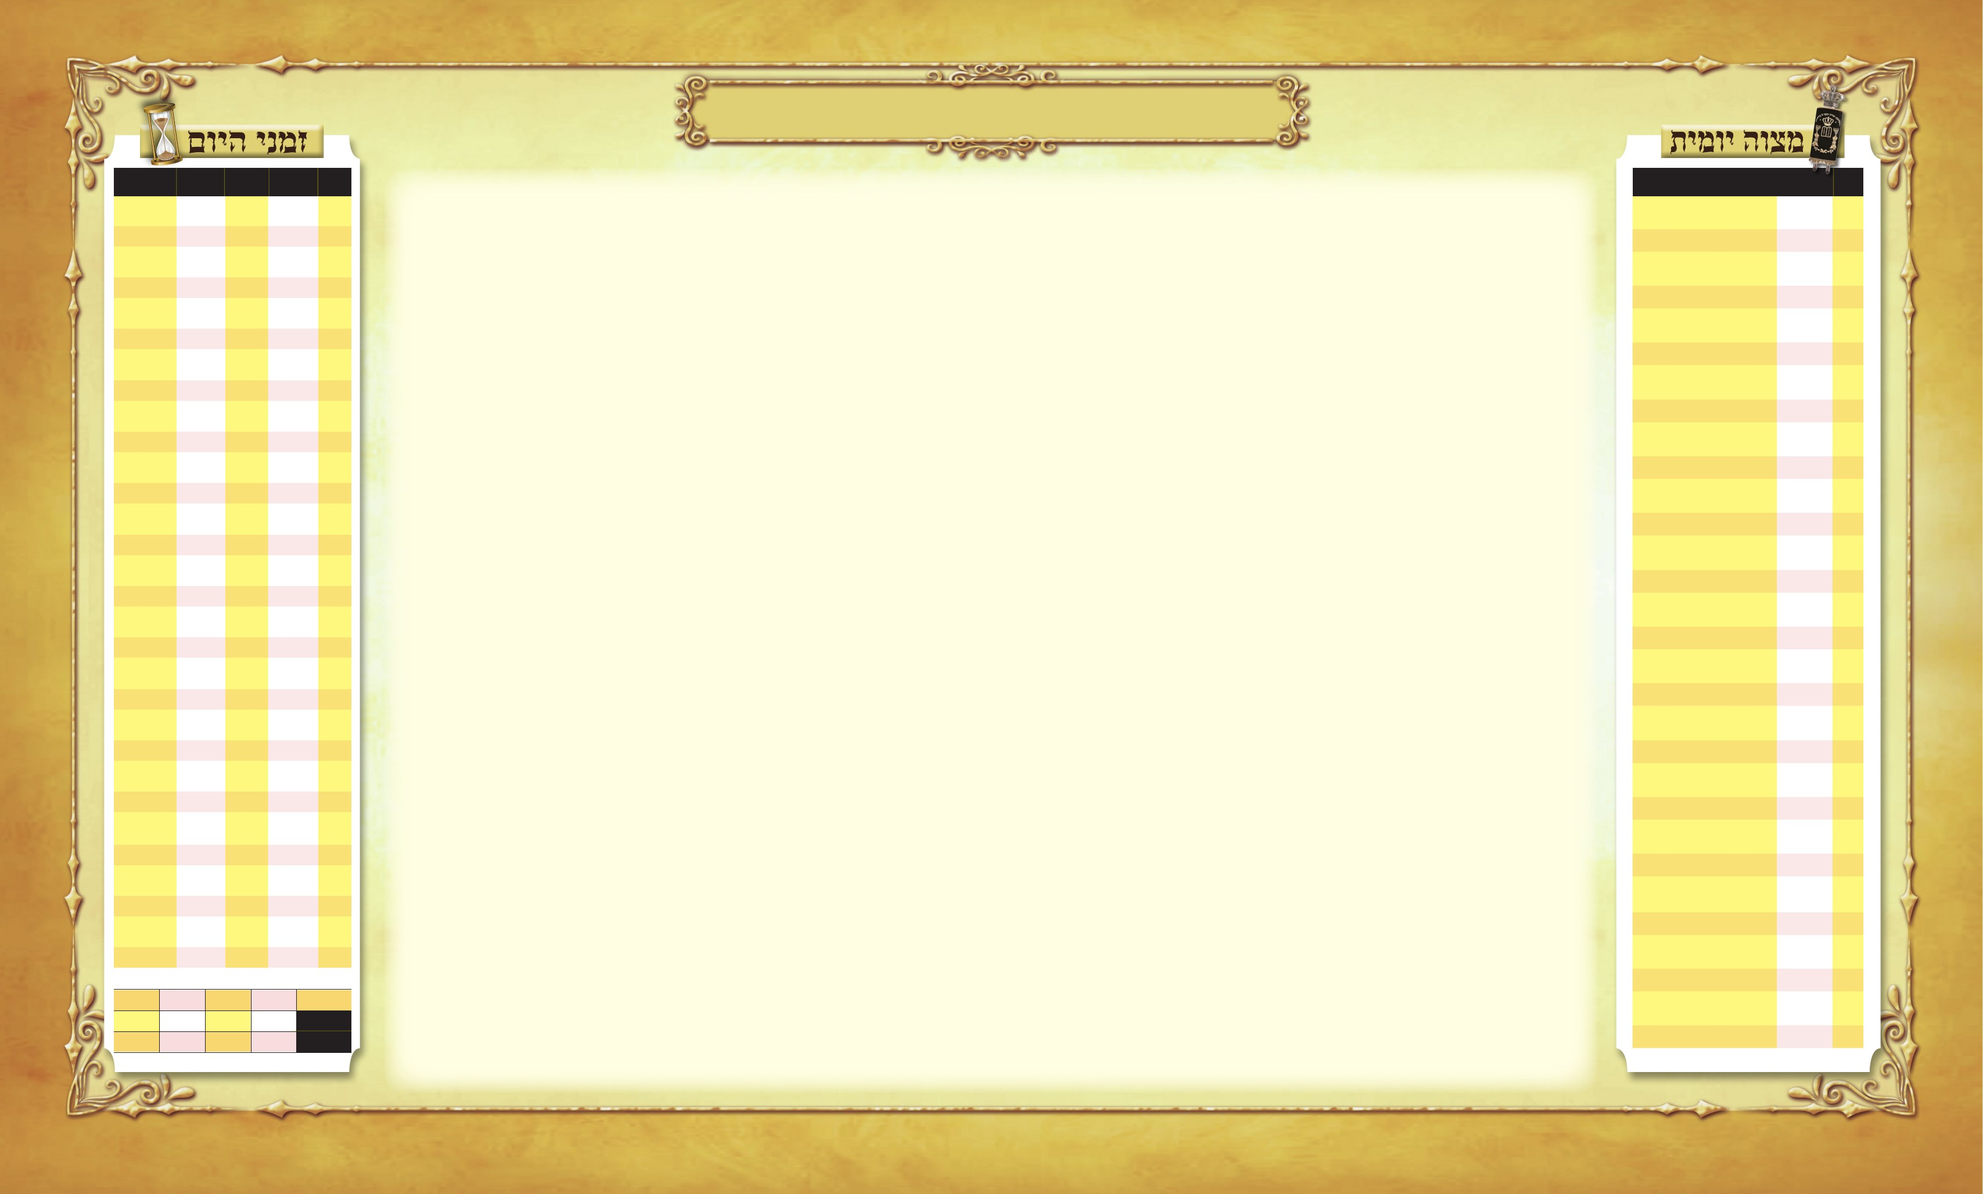
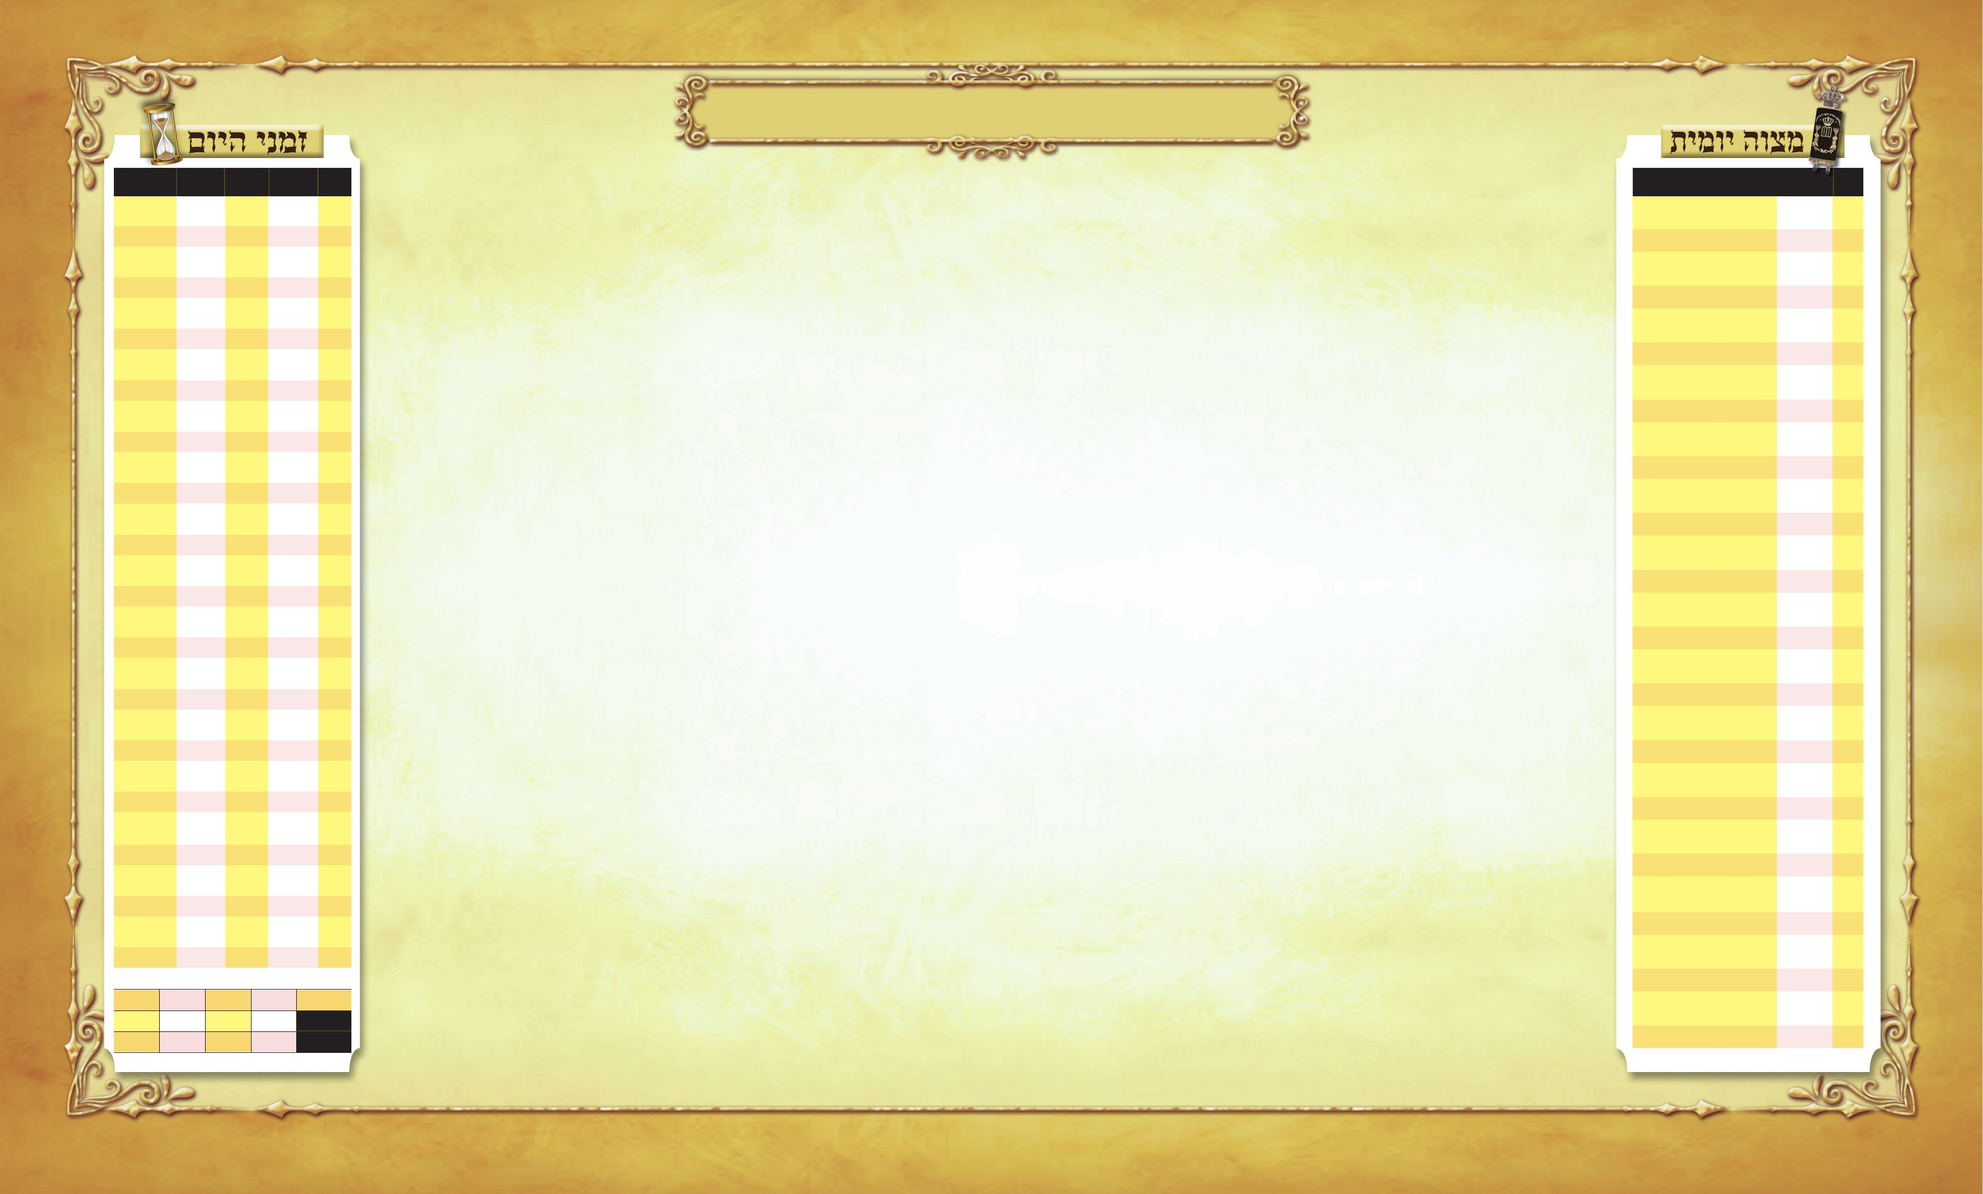
Luach: grid + day header form one closed rectangle (template grid removed, header sized to the lines)
Claude-Session: https://claude.ai/code/session_01HNngG18RqSZL1sRHYr8BZT

diff --git a/index.html b/index.html
@@ -8,62 +8,62 @@
   <link rel="preconnect" href="https://fonts.gstatic.com" crossorigin>
   <link href="https://fonts.googleapis.com/css2?family=Heebo:wght@400;500;700&family=Playpen+Sans+Hebrew:wght@400;600&family=Amatic+SC:wght@700&family=Noto+Rashi+Hebrew:wght@500&family=Frank+Ruhl+Libre:wght@400;700&display=swap" rel="stylesheet">
   <link rel="icon" type="image/png" href="img/favicon.png">
-  <link rel="stylesheet" href="css/style.css?v=367">
-  <link rel="stylesheet" href="css/luach.css?v=367">
+  <link rel="stylesheet" href="css/style.css?v=368">
+  <link rel="stylesheet" href="css/luach.css?v=368">
   <script src="https://accounts.google.com/gsi/client" async defer></script>
   <script type="importmap">
   {"imports": {
-    "./js/admin.js": "./js/admin.js?v=367",
-    "./js/app.js": "./js/app.js?v=367",
-    "./js/campaigns.js": "./js/campaigns.js?v=367",
-    "./js/config.js": "./js/config.js?v=367",
-    "./js/data.js": "./js/data.js?v=367",
-    "./js/donations.js": "./js/donations.js?v=367",
-    "./js/chart.js": "./js/chart.js?v=367",
-    "./js/fx.js": "./js/fx.js?v=367",
-    "./js/excel.js": "./js/excel.js?v=367",
-    "./js/hebdate.js": "./js/hebdate.js?v=367",
-    "./js/google.js": "./js/google.js?v=367",
-    "./js/help.js": "./js/help.js?v=367",
-    "./js/helptexts.js": "./js/helptexts.js?v=367",
-    "./js/helpview.js": "./js/helpview.js?v=367",
-    "./js/tour.js": "./js/tour.js?v=367",
-    "./js/luach/engine.js": "./js/luach/engine.js?v=367",
-    "./js/luach/zmanim.js": "./js/luach/zmanim.js?v=367",
-    "./js/luach/mitzvos.js": "./js/luach/mitzvos.js?v=367",
-    "./js/luach/view.js": "./js/luach/view.js?v=367",
-    "./js/images.js": "./js/images.js?v=367",
-    "./js/import.js": "./js/import.js?v=367",
-    "./js/i18n.js": "./js/i18n.js?v=367",
-    "./js/i18n-he.js": "./js/i18n-he.js?v=367",
-    "./js/sorttables.js": "./js/sorttables.js?v=367",
-    "./js/lists.js": "./js/lists.js?v=367",
-    "./js/mail.js": "./js/mail.js?v=367",
-    "./js/mailmerge.js": "./js/mailmerge.js?v=367",
-    "./js/mm-render.js": "./js/mm-render.js?v=367",
-    "./js/orgtags.js": "./js/orgtags.js?v=367",
-    "./js/pdf.js": "./js/pdf.js?v=367",
-    "./js/fonts.js": "./js/fonts.js?v=367",
-    "./js/feedback.js": "./js/feedback.js?v=367",
-    "./js/tags.js": "./js/tags.js?v=367",
-    "./js/work.js": "./js/work.js?v=367",
-    "./js/tagmigrate.js": "./js/tagmigrate.js?v=367",
-    "./js/names.js": "./js/names.js?v=367",
-    "./js/occasions.js": "./js/occasions.js?v=367",
-    "./js/personal.js": "./js/personal.js?v=367",
-    "./js/places.js": "./js/places.js?v=367",
-    "./js/receipts.js": "./js/receipts.js?v=367",
-    "./js/books.js": "./js/books.js?v=367",
-    "./js/faces.js": "./js/faces.js?v=367",
-    "./js/listsync.js": "./js/listsync.js?v=367",
-    "./js/requests.js": "./js/requests.js?v=367",
-    "./js/school.js": "./js/school.js?v=367",
-    "./js/sms.js": "./js/sms.js?v=367",
-    "./js/simchos.js": "./js/simchos.js?v=367",
-    "./js/parasha.js": "./js/parasha.js?v=367",
-    "./js/merge.js": "./js/merge.js?v=367",
-    "./js/scope.js": "./js/scope.js?v=367",
-    "./js/util.js": "./js/util.js?v=367"
+    "./js/admin.js": "./js/admin.js?v=368",
+    "./js/app.js": "./js/app.js?v=368",
+    "./js/campaigns.js": "./js/campaigns.js?v=368",
+    "./js/config.js": "./js/config.js?v=368",
+    "./js/data.js": "./js/data.js?v=368",
+    "./js/donations.js": "./js/donations.js?v=368",
+    "./js/chart.js": "./js/chart.js?v=368",
+    "./js/fx.js": "./js/fx.js?v=368",
+    "./js/excel.js": "./js/excel.js?v=368",
+    "./js/hebdate.js": "./js/hebdate.js?v=368",
+    "./js/google.js": "./js/google.js?v=368",
+    "./js/help.js": "./js/help.js?v=368",
+    "./js/helptexts.js": "./js/helptexts.js?v=368",
+    "./js/helpview.js": "./js/helpview.js?v=368",
+    "./js/tour.js": "./js/tour.js?v=368",
+    "./js/luach/engine.js": "./js/luach/engine.js?v=368",
+    "./js/luach/zmanim.js": "./js/luach/zmanim.js?v=368",
+    "./js/luach/mitzvos.js": "./js/luach/mitzvos.js?v=368",
+    "./js/luach/view.js": "./js/luach/view.js?v=368",
+    "./js/images.js": "./js/images.js?v=368",
+    "./js/import.js": "./js/import.js?v=368",
+    "./js/i18n.js": "./js/i18n.js?v=368",
+    "./js/i18n-he.js": "./js/i18n-he.js?v=368",
+    "./js/sorttables.js": "./js/sorttables.js?v=368",
+    "./js/lists.js": "./js/lists.js?v=368",
+    "./js/mail.js": "./js/mail.js?v=368",
+    "./js/mailmerge.js": "./js/mailmerge.js?v=368",
+    "./js/mm-render.js": "./js/mm-render.js?v=368",
+    "./js/orgtags.js": "./js/orgtags.js?v=368",
+    "./js/pdf.js": "./js/pdf.js?v=368",
+    "./js/fonts.js": "./js/fonts.js?v=368",
+    "./js/feedback.js": "./js/feedback.js?v=368",
+    "./js/tags.js": "./js/tags.js?v=368",
+    "./js/work.js": "./js/work.js?v=368",
+    "./js/tagmigrate.js": "./js/tagmigrate.js?v=368",
+    "./js/names.js": "./js/names.js?v=368",
+    "./js/occasions.js": "./js/occasions.js?v=368",
+    "./js/personal.js": "./js/personal.js?v=368",
+    "./js/places.js": "./js/places.js?v=368",
+    "./js/receipts.js": "./js/receipts.js?v=368",
+    "./js/books.js": "./js/books.js?v=368",
+    "./js/faces.js": "./js/faces.js?v=368",
+    "./js/listsync.js": "./js/listsync.js?v=368",
+    "./js/requests.js": "./js/requests.js?v=368",
+    "./js/school.js": "./js/school.js?v=368",
+    "./js/sms.js": "./js/sms.js?v=368",
+    "./js/simchos.js": "./js/simchos.js?v=368",
+    "./js/parasha.js": "./js/parasha.js?v=368",
+    "./js/merge.js": "./js/merge.js?v=368",
+    "./js/scope.js": "./js/scope.js?v=368",
+    "./js/util.js": "./js/util.js?v=368"
   }}
   </script>
   <script type="module">import "./js/app.js";</script>

diff --git a/js/luach/view.js b/js/luach/view.js
@@ -124,7 +124,8 @@ function cellHtml(d, r, c, page) {
 // כל ליניעס פון דער טאבעלע — איין דיקקייט און איין פארב, פארבונדן
 const LW = 1; const GX = [...COLS].reverse().concat([COLS[0] + COL_W]); const GY = [...ROW_T, ROW_T[4] + ROW_H];
 const GRID_LINES = [
-  ...GX.map((x) => `<div class="lx-gl" style="left:${x - LW / 2}pt;top:${GY[0] - LW / 2}pt;width:${LW}pt;height:${GY[5] - GY[0] + LW}pt"></div>`),
+  ...GX.map((x, i) => `<div class="lx-gl" style="left:${x - LW / 2}pt;top:${(i === 0 || i === 7 ? 70.6 : GY[0]) - LW / 2}pt;width:${LW}pt;height:${GY[5] - (i === 0 || i === 7 ? 70.6 : GY[0]) + LW}pt"></div>`),
+  `<div class="lx-gl" style="left:${GX[0] - LW / 2}pt;top:${70.6 - LW / 2}pt;width:${GX[7] - GX[0] + LW}pt;height:${LW}pt"></div>`,
   ...GY.map((y) => `<div class="lx-gl" style="left:${GX[0] - LW / 2}pt;top:${y - LW / 2}pt;width:${GX[7] - GX[0] + LW}pt;height:${LW}pt"></div>`),
 ].join('');
 const pos = (c, r) => `left:${COLS[c]}pt;top:${ROW_T[r]}pt;width:${COL_W}pt;height:${ROW_H}pt`;
@@ -160,7 +161,7 @@ function pageHtml(p, print = false) {
   return `<div class="lx-page${print ? ' lx-print' : ''}" dir="rtl">
     <img class="lx-tmpl" src="img/luach/${print ? 'tmpl-print' : 'tmpl'}.jpg" alt="">
     <div class="lx-head"><span class="lx-mname">${h(p.he === 'אב' ? 'מנחם-אב' : p.he)}</span><span class="lx-mazal">${h(p.mazal)}</span><span class="lx-greg" dir="ltr">${fitText(greg)}</span></div>
-    <div class="lx-band"></div><div class="lx-days">${DAY_HE.map((n, c) => `<div style="left:${COLS[c]}pt;width:${COL_W}pt"><b>${n}</b><span>${DAY_EN[c]}</span></div>`).join('')}</div>
+    <div class="lx-band"></div><div class="lx-days">${DAY_HE.map((n, c) => `<div style="left:${COLS[c]}pt;width:${COL_W}pt${c === 6 ? ';border-left:none' : ''}"><b>${n}</b><span>${DAY_EN[c]}</span></div>`).join('')}</div>
     ${cells.join('')}
     ${carried ? `<div class="lx-carry" style="left:${COLS[6]}pt;top:${ROW_T[4] + ROW_H - 0.6}pt" title="ל' — בעמוד הבא">ל<span>›</span></div>` : ''}
     ${GRID_LINES}

diff --git a/js/mosad/app.js b/js/mosad/app.js
@@ -1,12 +1,12 @@
 // דער אתר פון א מוסד: לאגאין, אן ערשטער בלאט מיט כפתורים (יעדער כפתור = א הרשאה), די מענטשן פונעם מוסד,
 // תלמידים / בוגרים / הורים / שכר לימוד (school.js), און צוות + הרשאות.
-import { initAuth, signIn, signOut, call, configured, hasSession, rememberHint, brand, prefetch, clearPrefetch } from './api.js?v=367';
-import { initSchool, loadSchool, renderStudents, renderParents, renderTuition, personSchool, currentZman } from './school.js?v=367';
-import { initGifts, renderGifts } from './gifts.js?v=367';
-import { initJournal, renderChav, renderAtt, renderIns, printPhones, settingsHtml, wireSettings, printWin, setAttTab } from './journal.js?v=367';
-import { initMe, renderMe, renderLog, historyDialog, backupsHtml, wireBackups } from './me.js?v=367';
-import { initTeam, renderTeam } from './team.js?v=367';
-import { initFinance, renderFinance, payDialog } from './finance.js?v=367';
+import { initAuth, signIn, signOut, call, configured, hasSession, rememberHint, brand, prefetch, clearPrefetch } from './api.js?v=368';
+import { initSchool, loadSchool, renderStudents, renderParents, renderTuition, personSchool, currentZman } from './school.js?v=368';
+import { initGifts, renderGifts } from './gifts.js?v=368';
+import { initJournal, renderChav, renderAtt, renderIns, printPhones, settingsHtml, wireSettings, printWin, setAttTab } from './journal.js?v=368';
+import { initMe, renderMe, renderLog, historyDialog, backupsHtml, wireBackups } from './me.js?v=368';
+import { initTeam, renderTeam } from './team.js?v=368';
+import { initFinance, renderFinance, payDialog } from './finance.js?v=368';
 
 const KEY = document.body.dataset.mosad || '';
 const TITLE = document.body.dataset.title || '';

diff --git a/js/mosad/finance.js b/js/mosad/finance.js
@@ -1,12 +1,12 @@
 // אתר פון א מוסד — 💰 משכורות והוצאות (הרשאה "finance"):
 // 💵 משכורות (₪: גלובלי / שעות קבועות / רישום יומי / גלובלי + שעות, תוספות און ניכויים, תשלומים, וויפיל מ'איז נאך שולדיג),
 // 🧾 הוצאות (₪/$, קאטעגאריעס, צילום קבלה), 📥 הכנסות ותמיכה, ⚖ חובות פתוחים, 📊 מאזן חודשי — יעדער מטבע באזונדער.
-import { downloadXlsx } from '../excel.js?v=367';
-import { todayIso, toHebrew, monthHe, yearLabel } from '../hebdate.js?v=367';
-import { loadSchool, schoolLoaded, alumniDebts } from './school.js?v=367';
-import { historyDialog } from './me.js?v=367';
-import { PAY_TYPES, schedText } from './team.js?v=367';
-import { usdRate } from '../fx.js?v=367';
+import { downloadXlsx } from '../excel.js?v=368';
+import { todayIso, toHebrew, monthHe, yearLabel } from '../hebdate.js?v=368';
+import { loadSchool, schoolLoaded, alumniDebts } from './school.js?v=368';
+import { historyDialog } from './me.js?v=368';
+import { PAY_TYPES, schedText } from './team.js?v=368';
+import { usdRate } from '../fx.js?v=368';
 
 let X = null;
 export function initFinance(ctx) { X = ctx; }

diff --git a/js/mosad/journal.js b/js/mosad/journal.js
@@ -1,10 +1,10 @@
 // אתר פון א מוסד — יומנים: 🤝 חברותות, ✅ השתתפות (מיט ⏱ כניסה/יציאה פון אברכים), 🏥 ביטוח בריאות, 📞 יומן מיט טעלעפאנען.
 // אלעס ווערט געדרוקט ווי די דפים פון דער ישיבה: צוויי זיילן מיט נומערירטע נעמען, "פרשת ...", טעג א–ה.
 // דער לוח (פרשיות) — לויט די הגדרות פונעם מוסד (ארץ ישראל / חוץ לארץ).
-import { downloadXlsx } from '../excel.js?v=367';
-import { todayIso, isoToHebrewText, toHebrew, monthHe, yearLabel } from '../hebdate.js?v=367';
-import { shabbatTitle, shabbatOfWeek } from '../parasha.js?v=367';
-import { loadSchool, schoolLoaded, activeStudents, zmanim, currentZman } from './school.js?v=367';
+import { downloadXlsx } from '../excel.js?v=368';
+import { todayIso, isoToHebrewText, toHebrew, monthHe, yearLabel } from '../hebdate.js?v=368';
+import { shabbatTitle, shabbatOfWeek } from '../parasha.js?v=368';
+import { loadSchool, schoolLoaded, activeStudents, zmanim, currentZman } from './school.js?v=368';
 
 let X = null;
 export function initJournal(ctx) { X = ctx; }

diff --git a/js/mosad/gifts.js b/js/mosad/gifts.js
@@ -2,9 +2,9 @@
 // מיט אן איש קשר → אינעם הויפט-גיליון (ווייזט זיך אויך אינעם הויפט-אתר, און דער נדבן באקומט "תורמים ← דער מוסד");
 // אן איש קשר → נאר אינעם גיליון פונעם מוסד. קבלה פון אמעריקע: מיטן EIN פון קהל אונגוואר, אין דער זעלבער סעריע ווי אינעם הויפט-אתר.
 // א קבלה פון ארץ ישראל (סעיף 46) גייט נישט פון דא — מ'שרייבט נאר איר נומער.
-import { CURRENCIES, isForeign, fmtCur, amountLabel, usdRate, toUsd } from '../fx.js?v=367';
-import { downloadXlsx } from '../excel.js?v=367';
-import { isoToHebrewText, todayIso } from '../hebdate.js?v=367';
+import { CURRENCIES, isForeign, fmtCur, amountLabel, usdRate, toUsd } from '../fx.js?v=368';
+import { downloadXlsx } from '../excel.js?v=368';
+import { isoToHebrewText, todayIso } from '../hebdate.js?v=368';
 
 let X = null;
 export function initGifts(ctx) { X = ctx; }

diff --git a/yeshiva/index.html b/yeshiva/index.html
@@ -8,13 +8,13 @@
   <link rel="preconnect" href="https://fonts.gstatic.com" crossorigin>
   <link href="https://fonts.googleapis.com/css2?family=Heebo:wght@400;500;700&display=swap" rel="stylesheet">
   <link rel="icon" type="image/png" href="../img/favicon.png">
-  <link rel="stylesheet" href="../css/style.css?v=367">
-  <link rel="stylesheet" href="../css/mosad.css?v=367">
+  <link rel="stylesheet" href="../css/style.css?v=368">
+  <link rel="stylesheet" href="../css/mosad.css?v=368">
   <script src="https://accounts.google.com/gsi/client" async defer></script>
 </head>
 <body class="ms-body" data-mosad="yeshiva" data-title="ישיבת בית שערים">
   <div id="ms-app"></div>
   <div id="ms-toast" class="ms-toast" hidden></div>
-  <script type="module" src="../js/mosad/app.js?v=367"></script>
+  <script type="module" src="../js/mosad/app.js?v=368"></script>
 </body>
 </html>

diff --git a/js/mosad/team.js b/js/mosad/team.js
@@ -1,9 +1,9 @@
 // אתר פון א מוסד — 👔 אנשי צוות ואברכים: צוויי באזונדערע רשימות אין איין כפתור.
 // אנשי צוות: תפקיד, טלפון, מייל (לאגאין), פון ווען, פעיל/לשעבר, סארט שכר (אן סכומים); 💰 → משכורות (נאר מיט הרשאה).
 // אברכים: וועמען זיי לערנען מיט (פון די חברותות), און שעות (כניסה/יציאה).
-import { downloadXlsx } from '../excel.js?v=367';
-import { currentZman } from './school.js?v=367';
-import { historyDialog } from './me.js?v=367';
+import { downloadXlsx } from '../excel.js?v=368';
+import { currentZman } from './school.js?v=368';
+import { historyDialog } from './me.js?v=368';
 
 let X = null;
 export function initTeam(ctx) { X = ctx; }

diff --git a/js/mosad/school.js b/js/mosad/school.js
@@ -1,6 +1,6 @@
 // אתר פון א מוסד — די ישיבה: תלמידים, בוגרים, הורים, שכר לימוד און קבלות (אלעס אינעם גיליון פונעם מוסד, דורכן שומר).
-import { toHebrew, fromHebrew, yearLabel, monthsOf, monthHe, todayIso, isoToHebrewText } from '../hebdate.js?v=367';
-import { downloadXlsx } from '../excel.js?v=367';
+import { toHebrew, fromHebrew, yearLabel, monthsOf, monthHe, todayIso, isoToHebrewText } from '../hebdate.js?v=368';
+import { downloadXlsx } from '../excel.js?v=368';
 
 let X = null; // די כלים פון app.js: { st, call, KEY, $, $$, h, S, dialog, toast, msg, pById, nameOf, phoneOf, fatherOf, can, loadPeople, render }
 export function initSchool(ctx) { X = ctx; }

diff --git a/js/mosad/me.js b/js/mosad/me.js
@@ -1,7 +1,7 @@
 // אתר פון א מוסד — 👤 אזור אישי (פרטים, ⏱ שעון נוכחות, 📋 משימות, 📜 הפעולות שלי, ✉ מייל — שפעטער),
 // 📜 יומן פעולות (בעלים / מנהל), 📜 היסטוריה פון א רשומה, און 🗂 גיבויים.
-import { downloadXlsx } from '../excel.js?v=367';
-import { todayIso } from '../hebdate.js?v=367';
+import { downloadXlsx } from '../excel.js?v=368';
+import { todayIso } from '../hebdate.js?v=368';
 
 let X = null;
 export function initMe(ctx) { X = ctx; }

diff --git a/css/luach.css b/css/luach.css
@@ -177,3 +177,5 @@
 /* ליניעס: נאר .lx-gl (איין דיקקייט, איין פארב) */
 .lx-cell { border: none !important; }
 .lx-gl { position: absolute; background: #351f17; pointer-events: none; z-index: 2; }
+/* כותרת פון די טעג: גענוי די זעלבע ברייט ווי די טאבעלע (מיט די ליניעס), אזוי ווערט עס איין פירעק */
+.lx-band { left: 160.7pt !important; width: 497.7pt !important; top: 70.6pt !important; height: 13.6pt !important; }

diff --git a/js/mosad/api.js b/js/mosad/api.js
@@ -1,6 +1,6 @@
 // אתר פון א מוסד (למשל ישיבה): לאגאין מיט גוגל (נאר "ווער ביסטו" — קיין צוטריט צום גיליון),
 // און אלע ידיעות דורכן "שומר" (Apps Script mosad.gs), וואס גיט נאר וואס מ'מעג.
-import { CONFIG } from '../config.js?v=367';
+import { CONFIG } from '../config.js?v=368';
 
 const STORE = 'khal-mosad-auth';
 const SCOPE = 'openid email profile';
